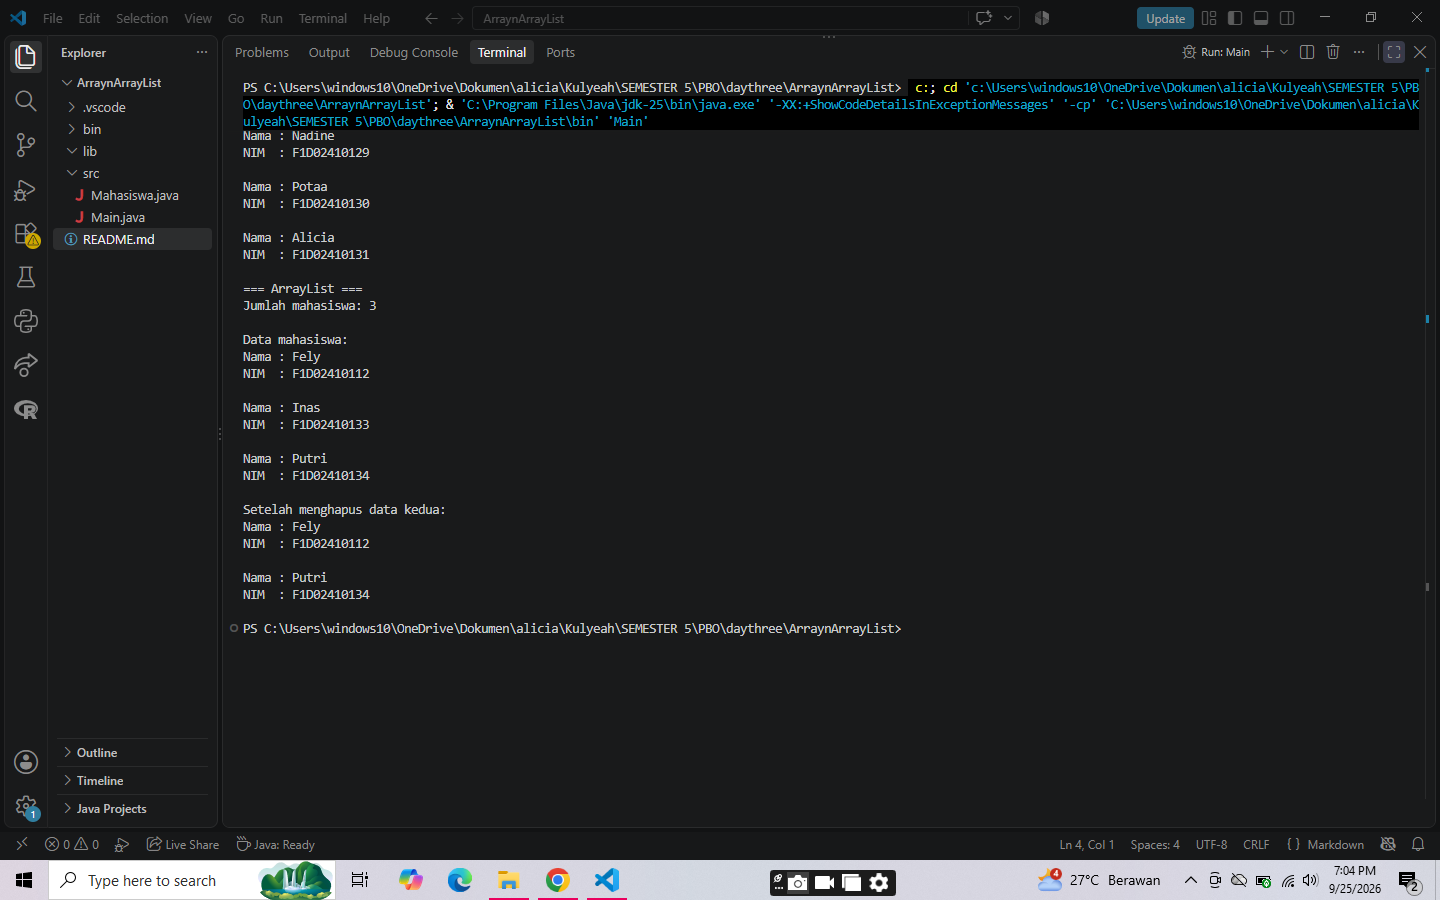
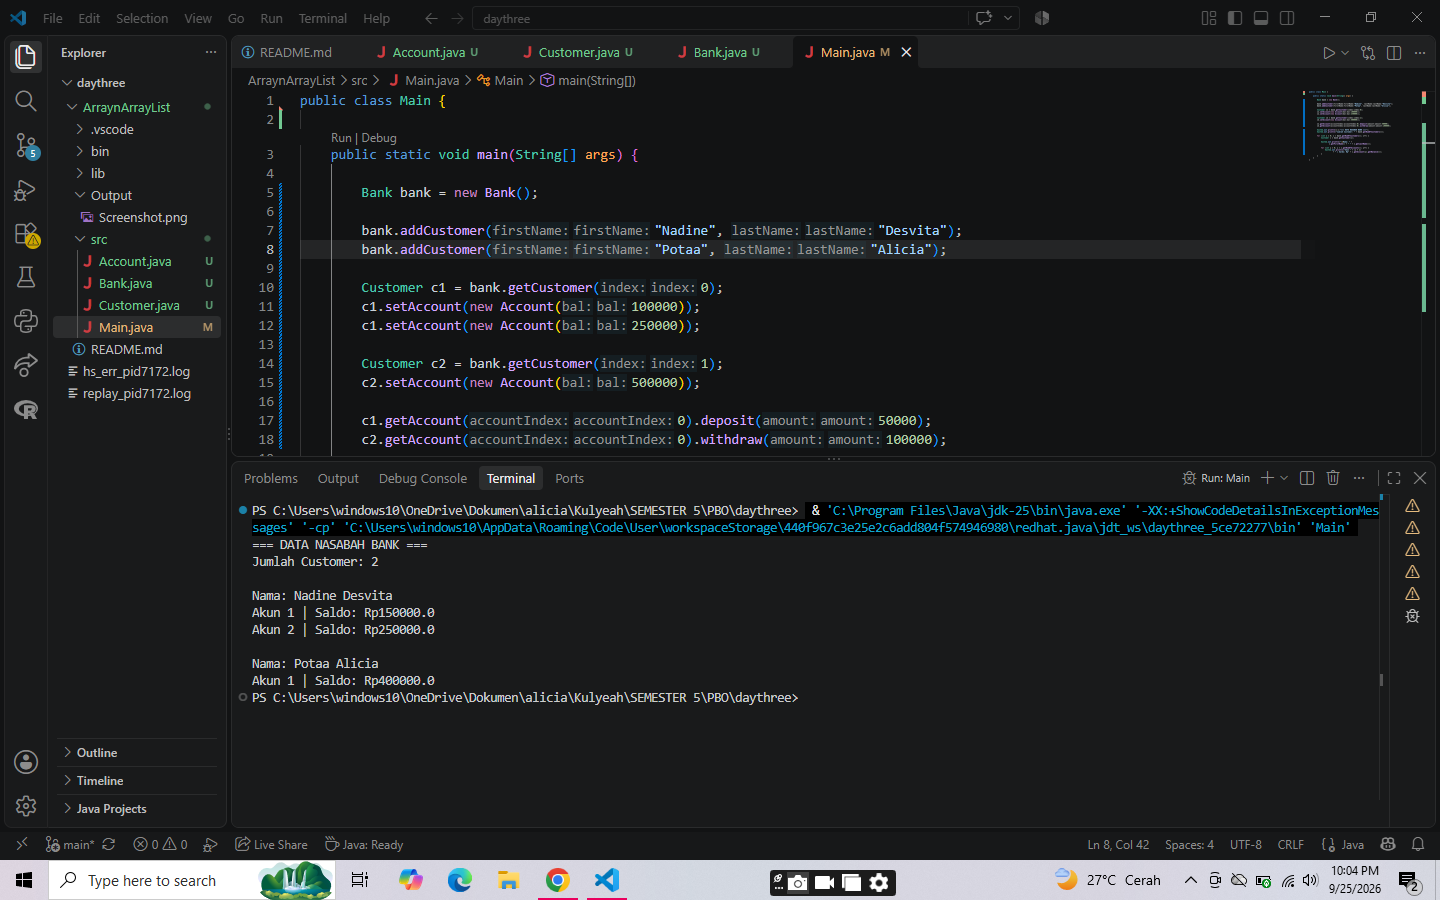
Tugas3

diff --git a/src/Main.java b/src/Main.java
@@ -1,43 +1,35 @@
-import java.util.ArrayList;
-
 public class Main {
+
     public static void main(String[] args) {
 
-        System.out.println("=== Array ===");
+        Bank bank = new Bank();
 
-        Mahasiswa[] kelas = new Mahasiswa[3];
+        bank.addCustomer("Nadine", "Desvita");
+        bank.addCustomer("Potaa", "Alicia");
 
-        kelas[0] = new Mahasiswa("Nadine", "F1D02410129");
-        kelas[1] = new Mahasiswa("Potaa", "F1D02410130");
-        kelas[2] = new Mahasiswa("Alicia", "F1D02410131");
+        Customer c1 = bank.getCustomer(0);
+        c1.setAccount(new Account(100000));
+        c1.setAccount(new Account(250000));
 
-        for (Mahasiswa m : kelas) {
-            m.tampilkanInfo();
-            System.out.println();
-        }
+        Customer c2 = bank.getCustomer(1);
+        c2.setAccount(new Account(500000));
 
-        System.out.println("=== ArrayList ===");
+        c1.getAccount(0).deposit(50000);
+        c2.getAccount(0).withdraw(100000);
 
-        ArrayList<Mahasiswa> daftar = new ArrayList<>();
+        System.out.println("=== DATA NASABAH BANK ===");
+        System.out.println("Jumlah Customer: " + bank.getNumOfCustomers());
 
-        daftar.add(new Mahasiswa("Fely", "F1D02410112"));
-        daftar.add(new Mahasiswa("Inas", "F1D02410133"));
-        daftar.add(new Mahasiswa("Putri", "F1D02410134"));
+        for (int i = 0; i < bank.getNumOfCustomers(); i++) {
+            Customer c = bank.getCustomer(i);
 
-        System.out.println("Jumlah mahasiswa: " + daftar.size());
+            System.out.println("\nNama: " +
+                    c.getFirstName() + " " + c.getLastName());
 
-        System.out.println("\nData mahasiswa:");
-        for (Mahasiswa m : daftar) {
-            m.tampilkanInfo();
-            System.out.println();
-        }
-
-        daftar.remove(1);
-
-        System.out.println("Setelah menghapus data kedua:");
-        for (Mahasiswa m : daftar) {
-            m.tampilkanInfo();
-            System.out.println();
+            for (int j = 0; j < c.getNumOfAccounts(); j++) {
+                System.out.println("Akun " + (j + 1)
+                        + " | Saldo: Rp" + c.getAccount(j).getBalance());
+            }
         }
     }
 }

diff --git a/src/Customer.java b/src/Customer.java
@@ -1,0 +1,34 @@
+public class Customer {
+
+    private String firstName;
+    private String lastName;
+    private Account[] accounts = new Account[5];
+    private int numberOfAccounts = 0;
+
+    public Customer(String f, String l) {
+        firstName = f;
+        lastName = l;
+    }
+
+    public String getFirstName() {
+        return firstName;
+    }
+
+    public String getLastName() {
+        return lastName;
+    }
+
+    public void setAccount(Account acct) {
+        if (numberOfAccounts < 5) {
+            accounts[numberOfAccounts++] = acct;
+        }
+    }
+
+    public Account getAccount(int accountIndex) {
+        return accounts[accountIndex];
+    }
+
+    public int getNumOfAccounts() {
+        return numberOfAccounts;
+    }
+}

diff --git a/src/Account.java b/src/Account.java
@@ -1,0 +1,28 @@
+public class Account {
+
+    protected double balance;
+
+    public Account(double bal) {
+        balance = bal;
+    }
+
+    public double getBalance() {
+        return balance;
+    }
+
+    public boolean deposit(double amount) {
+        if (amount > 0) {
+            balance = balance + amount;
+            return true;
+        }
+        return false;
+    }
+
+    public boolean withdraw(double amount) {
+        if (balance >= amount) {
+            balance = balance - amount;
+            return true;
+        }
+        return false;
+    }
+}

diff --git a/src/Bank.java b/src/Bank.java
@@ -1,0 +1,23 @@
+public class Bank {
+
+    private Customer[] customers;
+    private int numberOfCustomers;
+
+    public Bank() {
+        customers = new Customer[10];
+        numberOfCustomers = 0;
+    }
+
+    public void addCustomer(String firstName, String lastName) {
+        customers[numberOfCustomers] = new Customer(firstName, lastName);
+        numberOfCustomers++;
+    }
+
+    public int getNumOfCustomers() {
+        return numberOfCustomers;
+    }
+
+    public Customer getCustomer(int index) {
+        return customers[index];
+    }
+}

diff --git a/README.md b/README.md
@@ -1,10 +1,50 @@
-# Latihan Array dan ArrayList Java
+# Latihan Array dan ArrayList
 
 ## Struktur Program
-        
-- `Mahasiswa.java` → Class yang menyimpan data mahasiswa.
-- `Main.java` → Menjalankan contoh penggunaan Array dan ArrayList.
-   
-## Screenshot Output
-![Hasil](Output/Screenshot.png)
 
+- `Account.java`
+- `Customer.java`
+- `Bank.java`
+- `Main.java`
+
+## Konsep yang Digunakan
+
+### 1. Array
+
+Program menggunakan array untuk menyimpan beberapa objek.
+
+Contoh pada `Customer.java`:
+
+```java
+private Account[] accounts = new Account[5];
+```
+
+Array memiliki ukuran tetap sebanyak 5 akun sesuai latihan pada slide.
+
+### 2. Operasi Array
+
+Beberapa operasi yang digunakan:
+
+- Menambahkan objek ke array.
+- Mengakses objek berdasarkan indeks.
+- Menghitung jumlah objek dengan variabel `numberOfAccounts`.
+
+### 3. Eksplorasi Main
+
+Pada `Main.java` dilakukan:
+
+- Membuat objek `Bank`.
+- Menambahkan customer.
+- Menambahkan beberapa account.
+- Melakukan `deposit()` dan `withdraw()`.
+- Menampilkan seluruh data customer beserta saldo setiap account.
+
+## Library Tambahan
+
+Tidak menggunakan library eksternal.
+
+## Screenshot
+
+Berikut hasil ketika program dijalankan.
+
+![Output](Output/Screenshot.png)
